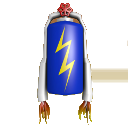
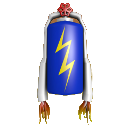
fixed turbo image

Changed region(s): [[0.7188, 0.5312, 1.0, 0.6562], [0.9688, 0.3125, 1.0, 0.375]]

diff --git a/project.py b/project.py
@@ -1,9 +1,7 @@
 # ================================= BUGS ======================================
 
 # build linux: pitstop's animation (only with shaders)
-# local mp: same name, iapeto 3, teia 7, wrong drivers
-# local mp: shadows
-# local mp: end of race with a weapon, image isn't destroyed
+# local mp: store names
 
 
 # ============================== TODO LIST ====================================
@@ -28,6 +26,7 @@
 # lib/p3d/gui.py, lib/p3d/gfx.py: __init__ method from a non direct base class
 #   'Facade' is called
 # remove eng.server
+# class Player (has-a car, has-a driver)
 # where proper (i.e. where observers aren't tied to the observable) replace
 #   observer with publisher-subscriber
 # attach/attach_obs, detach/detach_obs - the client attach-es it to the
